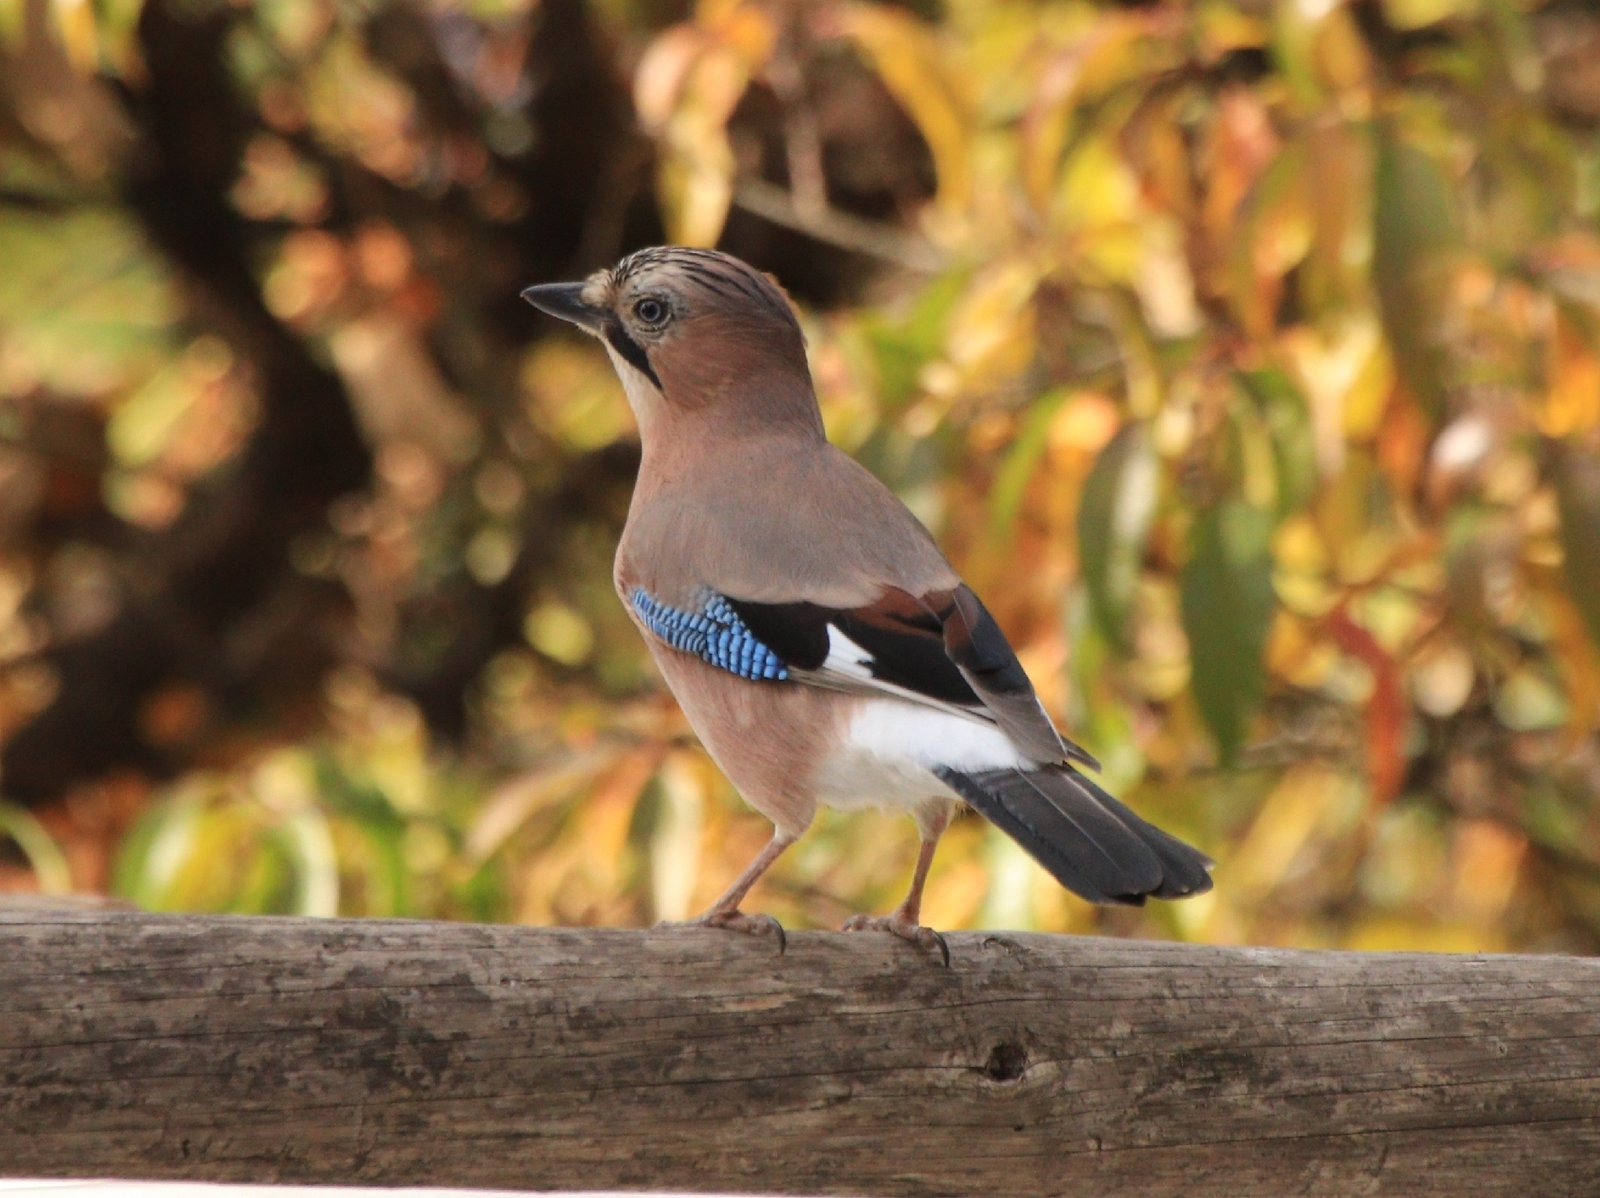
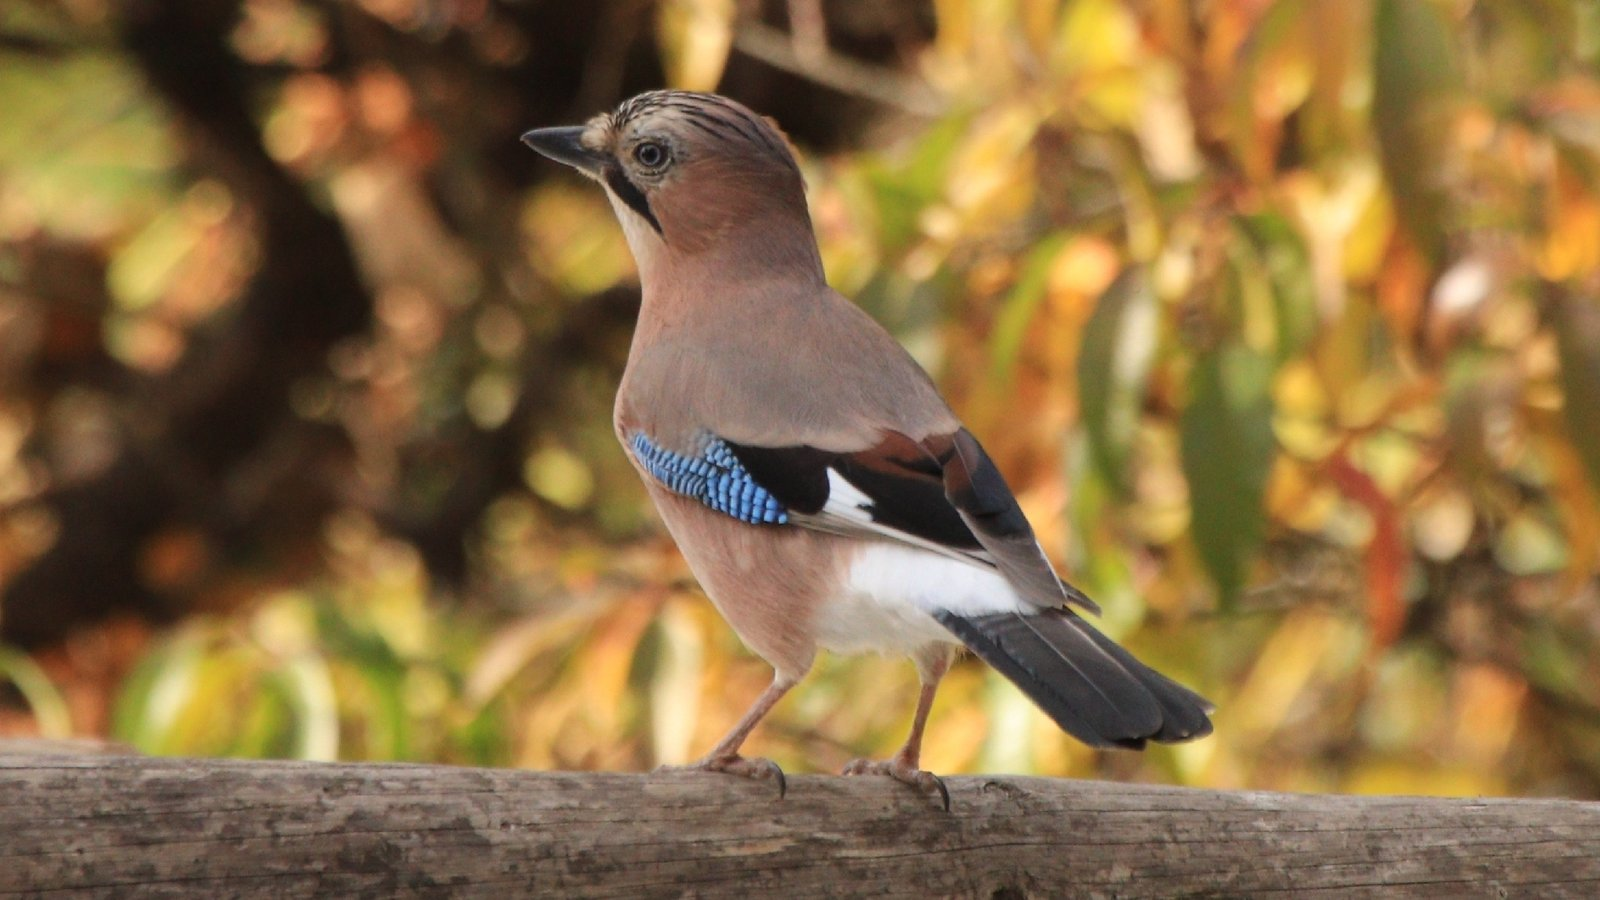
Ekran görüntüleri: video sonucuna kaydır, 16:9 örnek kareler, gece teması sızıntısı düzeltildi
Saha modu/gece teması artık UserDefaults argüman alanıyla verilir; önceden uygulama ayarı
kaydettiği için 9. sahneden sonraki tüm görüntüler (İngilizceler dahil) kırmızı gece temasında
kalıyordu. Eski sahne dosyaları çekimden önce silinir.

Claude-Session: https://claude.ai/code/session_011RkpWJfGkdmEjCGNVzzYXo

diff --git a/ios/AvHaritasi/BirdPhoto/Presentation/BirdPhotoIDView.swift b/ios/AvHaritasi/BirdPhoto/Presentation/BirdPhotoIDView.swift
@@ -17,6 +17,12 @@ struct BirdPhotoIDView: View {
     private var onlineActive: Bool { OnlineBirdID.isConfigured && onlineEnabled }
 
     var body: some View {
+        ScrollViewReader { proxy in
+            content.task { await loadScreenshotDemo(proxy) }
+        }
+    }
+
+    private var content: some View {
         List {
             Section {
                 if video.isActive {
@@ -75,7 +81,6 @@ struct BirdPhotoIDView: View {
                     .font(.caption2).foregroundStyle(.secondary)
             }
         }
-        .task { loadScreenshotDemo() }
         .task(id: pickerItem) {
             guard let item = pickerItem else { return }
             video.reset()
@@ -113,12 +118,18 @@ struct BirdPhotoIDView: View {
     private var busy: Bool { service.isBusy || video.isBusy }
 
     /// Yalnızca DEBUG: App Store ekran görüntüsü için hazır sonuç (`-kusDemo foto|video`).
-    private func loadScreenshotDemo() {
+    /// Videoda sonuçlar ekranın altında kaldığından birleşik sonuç satırı görünene kadar kaydırılır.
+    private func loadScreenshotDemo(_ proxy: ScrollViewProxy) async {
         #if DEBUG
         switch ScreenshotArguments.birdDemo {
-        case "foto": ScreenshotBirdDemo.applyPhoto(to: service)
-        case "video": ScreenshotBirdDemo.applyVideo(to: video)
-        default: break
+        case "foto":
+            ScreenshotBirdDemo.applyPhoto(to: service)
+        case "video":
+            ScreenshotBirdDemo.applyVideo(to: video)
+            try? await Task.sleep(for: .seconds(1))
+            proxy.scrollTo(VideoResultSections.combinedRowID, anchor: .bottom)
+        default:
+            break
         }
         #endif
     }

diff --git a/ios/AvHaritasi/Model/ScreenshotArguments.swift b/ios/AvHaritasi/Model/ScreenshotArguments.swift
@@ -7,7 +7,8 @@ import Foundation
 ///
 /// - `-demoIsaretler`: demo yürüyüşünün (Sarıkavak) yakınına örnek işaretler: Araç, Pusu, Av düştü
 /// - `-acYonlendir <tür>`: o türdeki işarete tam ekran yönlendirmeyi aç (`arac`, `pusu`, `avDustu`, `su`, `not`)
-/// - `-sahaModu`, `-geceKirmizi`: saha modunu ve gece (kırmızı) temasını aç (ayar olarak kaydedilir)
+/// - Saha modu ve gece teması kaydedilmeden, UserDefaults argüman alanıyla açılır: `-fieldMode YES -nightRedMode on`
+///   (uygulamanın kendisi yazsaydı simülatörde `defaults write` ile geri alınamıyor, sonraki sahneler koyu kalıyordu)
 /// - `-demoHassasiyet <m>`: demo yürüyüşünün GPS hassasiyeti (varsayılan 5 m)
 /// - `-demoDurak <adım>`: demo yürüyüşü bu adımda durur (adım ~20 m, saniyede bir)
 /// - `-haritaAcikligi <m>`: haritanın konuma ilk yakınlaşması (varsayılan 6000 m)
@@ -40,9 +41,6 @@ enum ScreenshotArguments {
 
     @MainActor
     static func apply(to model: AppModel) {
-        let d = UserDefaults.standard
-        if has("-sahaModu") { d.set(true, forKey: FieldTheme.fieldModeKey) }
-        if has("-geceKirmizi") { d.set(NightRedMode.on.rawValue, forKey: FieldTheme.nightModeKey) }
         if has("-demoIsaretler") { seed(model.waypoints) }
         if let k = guideKind, let w = model.waypoints.items.first(where: { $0.kind == k }) {
             model.waypoints.guidingID = w.id

diff --git a/ios/AvHaritasi/Model/ScreenshotBirdDemo.swift b/ios/AvHaritasi/Model/ScreenshotBirdDemo.swift
@@ -22,8 +22,8 @@ enum ScreenshotBirdDemo {
     @MainActor
     static func applyPhoto(to service: BirdIdentifierService) {
         guard let img = image("kus_foto.jpg") else { return }
-        let mallard = CGRect(x: 0.232, y: 0.069, width: 0.296, height: 0.344)
-        let moorhen = CGRect(x: 0.332, y: 0.446, width: 0.155, height: 0.199)
+        let mallard = CGRect(x: 0.232, y: 0.087, width: 0.296, height: 0.433)
+        let moorhen = CGRect(x: 0.332, y: 0.561, width: 0.156, height: 0.25)
         let duck = [prediction("Anas platyrhynchos_Mallard", 0.93),
                     prediction("Mareca strepera_Gadwall", 0.03),
                     prediction("Anas acuta_Northern Pintail", 0.01)]
@@ -53,7 +53,7 @@ enum ScreenshotBirdDemo {
             return max(0.06 + 0.05 * abs(sin(x * 1.7)), bird)
         }
         video.showDemo(duration: 47, timeline: timeline, windowStart: 18, preview: img,
-                       focusRect: CGRect(x: 0.325, y: 0.196, width: 0.432, height: 0.601),
+                       focusRect: CGRect(x: 0.325, y: 0.102, width: 0.432, height: 0.8),
                        fusion: VideoFusion.fuse(image: image, sound: sound))
     }
 }

diff --git a/ios/AvHaritasi/BirdPhoto/Presentation/BirdVideoViews.swift b/ios/AvHaritasi/BirdPhoto/Presentation/BirdVideoViews.swift
@@ -101,11 +101,15 @@ struct VideoResultSections: View {
     let video: BirdVideoService
     let status: (String?) -> BirdLegalStatus?
 
+    /// Birleşik sonuç satırı (ekran görüntüsü demosunda oraya kaydırılır).
+    static let combinedRowID = "videoBirlesikSonuc"
+
     var body: some View {
         if let f = video.fusion {
             if let c = f.combined {
                 Section {
                     PhotoPredictionRow(prediction: c, status: status(c.scientificName))
+                        .id(Self.combinedRowID)
                 } header: {
                     Text("Görüntü + ses")
                 } footer: {
